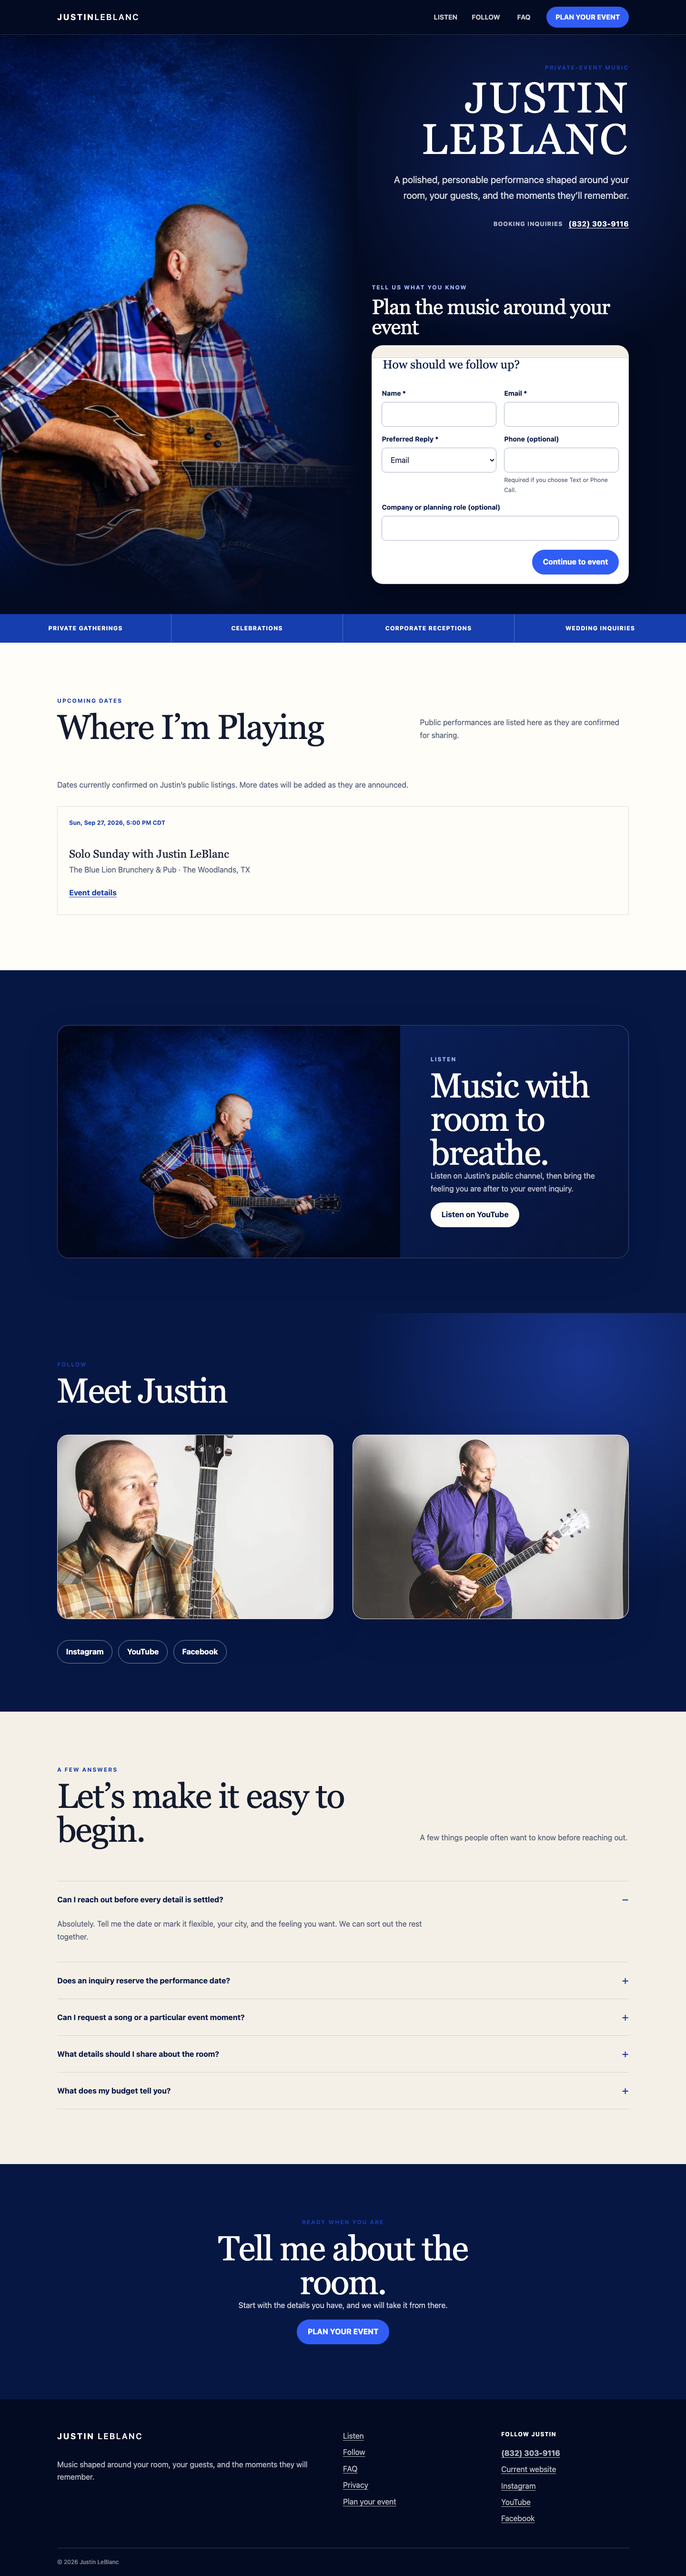
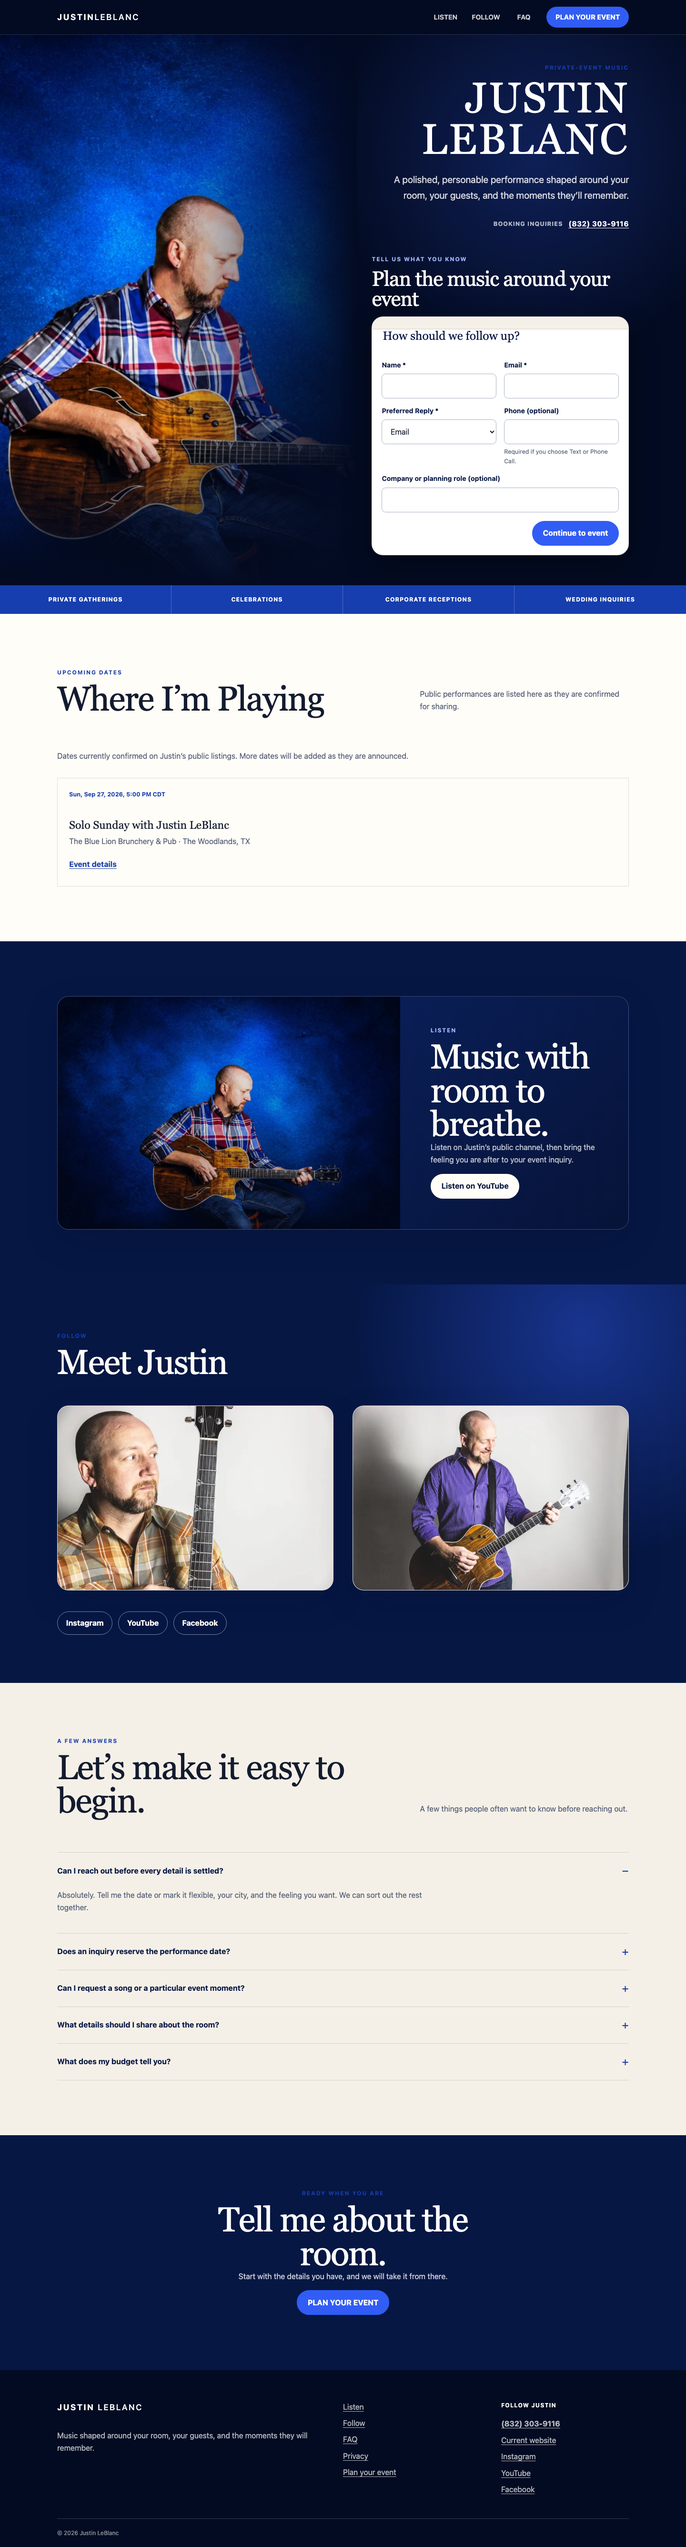
Make desktop planner viewport fit renderer-safe
- separate desktop row and column gaps so Linux and macOS font metrics both fit\n- preserve the generous horizontal composition while compacting vertical space\n- refresh affected desktop visual evidence

diff --git a/apps/web/src/styles/global.css b/apps/web/src/styles/global.css
@@ -1411,7 +1411,8 @@ input:disabled {
   grid-template-columns: minmax(0, 1fr) minmax(29rem, 0.94fr);
   grid-template-rows: minmax(0, 1fr) auto;
   align-items: end;
-  gap: clamp(2rem, 6vw, 7rem);
+  column-gap: clamp(2rem, 6vw, 7rem);
+  row-gap: clamp(1rem, 3vh, 2rem);
   padding-block: clamp(3rem, 7vh, 6rem);
 }
 
